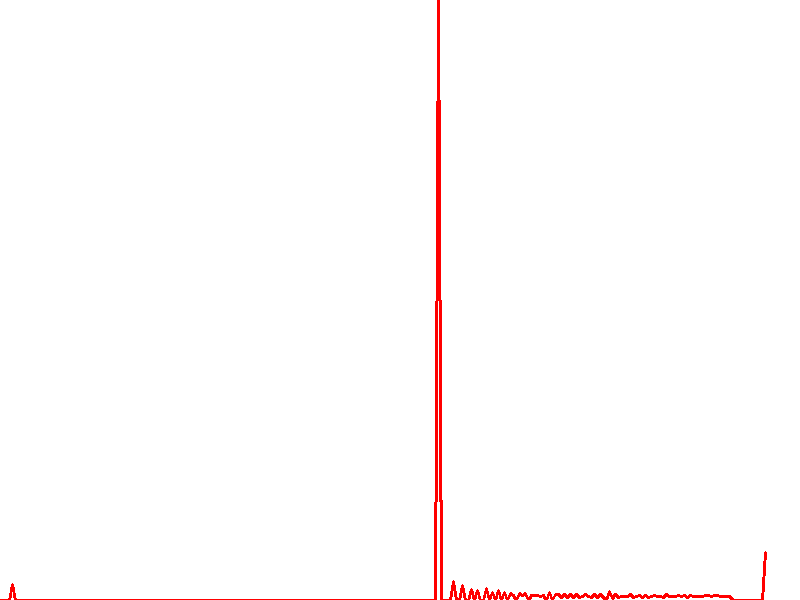
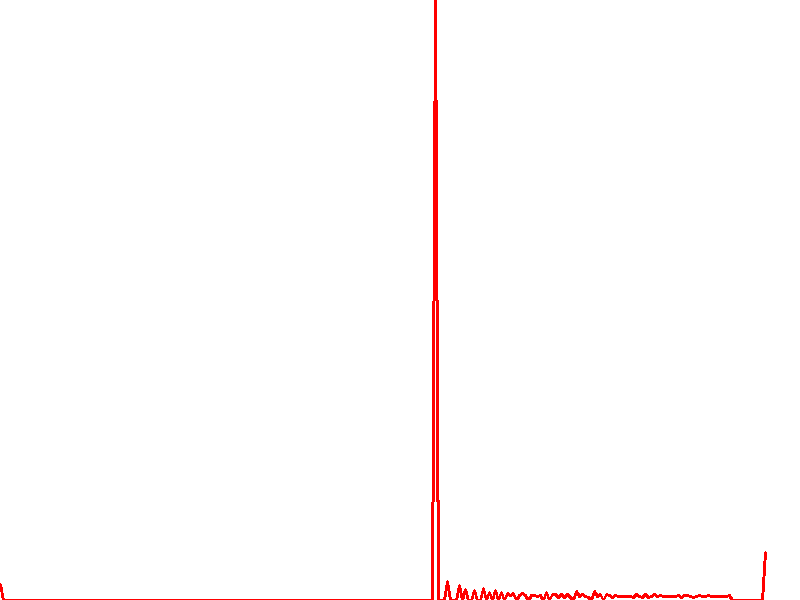
1

Changed region(s): [[0.5312, 0.0, 0.9062, 1.0], [0.0, 0.96, 0.0312, 1.0]]

diff --git a/main.cpp b/main.cpp
@@ -62,24 +62,37 @@ Mat histogram_equalization(const Mat& src_img, int hist_size) {
     // Compute histogram
     Mat hist = calculate_hist(src_img, hist_size);
 
-    // 计算累积分布函数(CDF)
-    Mat cdf = hist.clone();
+    // Calculate CDF
+    Mat cdf(hist_size, 1, CV_64F);
+    cdf.at<double>(0) = hist.at<float>(0);
     for (int i = 1; i < hist_size; i++) {
-        cdf.at<float>(i) += cdf.at<float>(i-1);
+        cdf.at<double>(i) = cdf.at<double>(i-1) + hist.at<float>(i);
     }
 
-    // 归一化CDF到[0,255]范围
-    cdf /= cdf.at<float>(hist_size-1);
-    cdf *= 255;
+    // Find the minimum of CDF
+    double min_cdf = 0;
+    for (int i = 0; i < hist_size; i++) {
+        if (cdf.at<double>(i) > 0) {
+            min_cdf = cdf.at<double>(i);
+            break;
+        }
+    }
 
-    // 创建查找表(LUT)用于灰度级映射
+    // Create Lookup Table
     Mat lookupTable(1, 256, CV_8U);
     uchar* p = lookupTable.ptr();
+    double total_pixels = src_img.total();
     for (int i = 0; i < 256; i++) {
-        p[i] = saturate_cast<uchar>(cdf.at<float>(i));
+        if (cdf.at<double>(i) > 0) {
+            p[i] = saturate_cast<uchar>(
+                255.0 * (cdf.at<double>(i) - min_cdf) / (total_pixels - min_cdf)
+            );
+        } else {
+            p[i] = 0;
+        }
     }
 
-    // 应用直方图均衡化
+    // Apply LUT
     Mat equalized_img;
     LUT(src_img, lookupTable, equalized_img);
 
